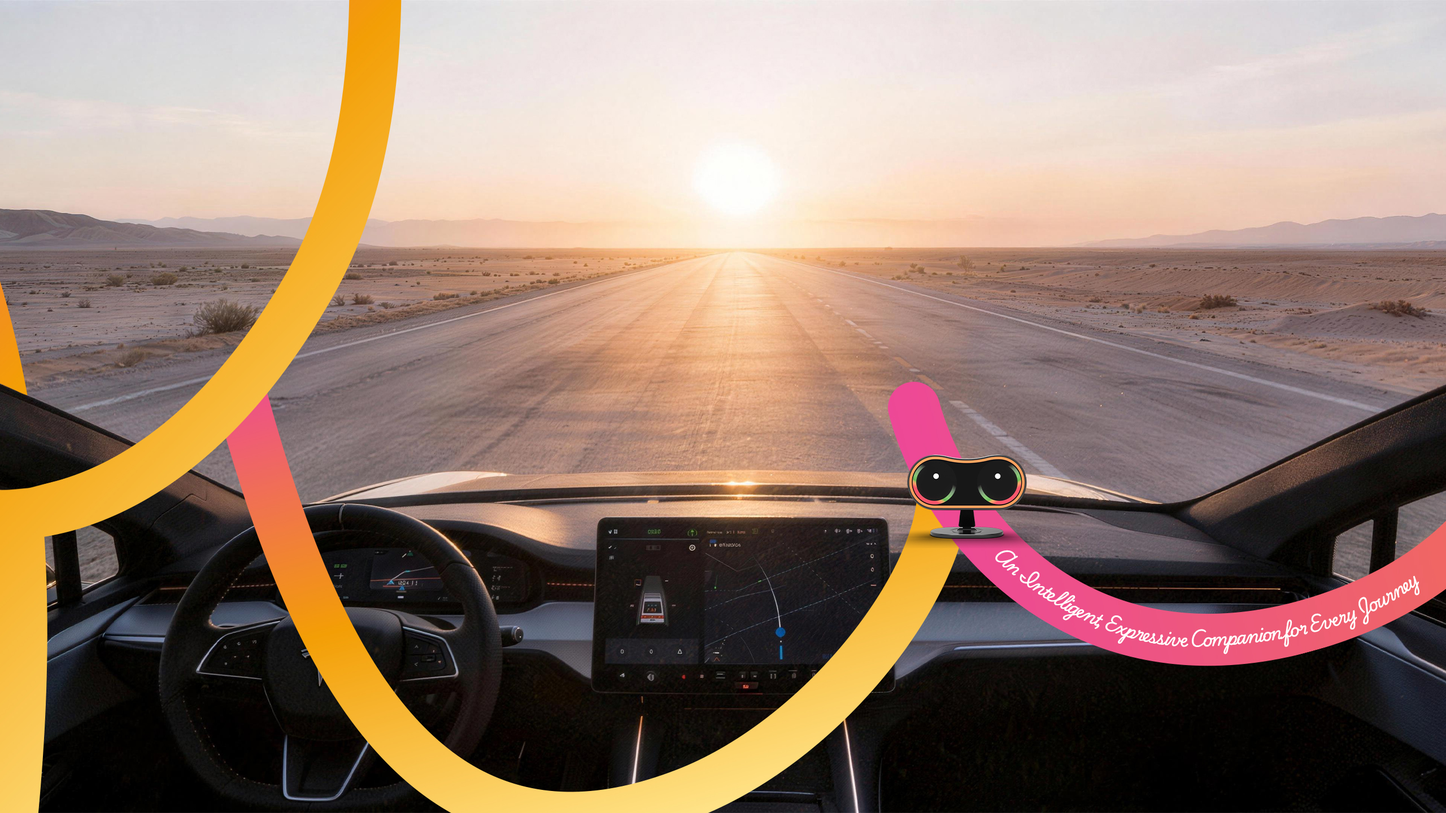
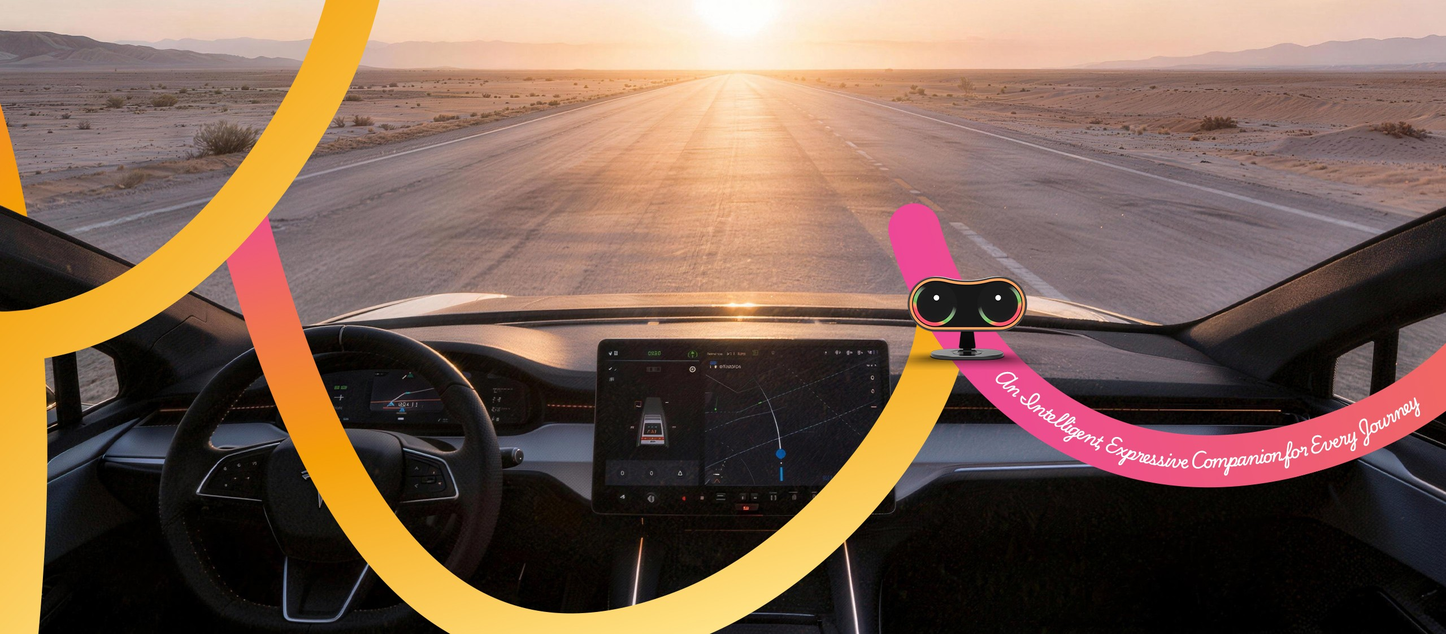
refine

diff --git a/assets/css/index.css b/assets/css/index.css
@@ -21,7 +21,7 @@ footer {
 
 #header {
   text-align: center;
-  margin-top: 3.125rem;
+  margin-top: 0rem;
 }
 
 #title {
@@ -31,6 +31,7 @@ footer {
   font-size: 4.375rem;
   font-weight: 700;
   line-height: 1.4;
+  color: #050504;
 }
 
 #subtitle  {
@@ -38,6 +39,7 @@ footer {
   margin: 0;
   font-size: 2.8125rem;
   line-height: 1.5;
+  color: #050504;
 }
 
 @media only screen and (min-width: 751px) {
@@ -108,7 +110,7 @@ footer {
     font-size: 1.75rem;
   }
 }
-html, body { background: #cde0fd; }
+html, body { background: #facf9d; }
 #header { padding: 6.25rem 0 7.5rem; color: #184377; }
 #header a { color: #184377; text-decoration: underline;}
 #header a:hover { color: #3380d4;}

diff --git a/_includes/header.html b/_includes/header.html
@@ -36,7 +36,7 @@
       <h2 class="{{ include.type }}-subheading">{{ page.subtitle }}</h2>
       {% endif %}
       {% endif %}
-      
+
       {% if include.type == "post" %}
           <span class="post-meta">Posted on {{ page.date | date: date_format }}</span>
           {% if page.readtime %}
@@ -64,7 +64,7 @@
       <h2 class="{{ include.type }}-subheading">{{ page.subtitle }}</h2>
       {% endif %}
       {% endif %}
-      
+
       {% if include.type == "post" %}
           <span class="post-meta">Posted on {{ page.date | date: date_format }}</span>
           {% if page.readtime %}

diff --git a/index.md b/index.md
@@ -2,15 +2,16 @@
 layout: base
 title: MOKUKU's website
 cover-img: /assets/img/banner1.jpg
+thumbnail-img: /assets/img/banner1.jpg
 css:
   - /assets/css/index.css
 ---
 
-<div id="header" markdown="1">
+<div id="header" style="background-image: url('assets/img/banner1.jpg'); height:700px; background-size: cover; background-position: center;" markdown="1">
 
-# The Open Clearing {#title}
+# MOKUKU AI Robot {#title}
 
-## thought, code, and digital being {#subtitle}
+## Driving Companion {#subtitle}
 
 </div>
 

diff --git a/aboutme.md b/aboutme.md
@@ -2,6 +2,7 @@
 layout: page
 title: About MOKUKU
 subtitle: Why you'd want to go on a date with me
+cover-img: /assets/img/banner1.jpg
 ---
 
 **MOKUKU** is a small team focused on building creative hardware and software that makes technology more fun, expressive, and interactive.
